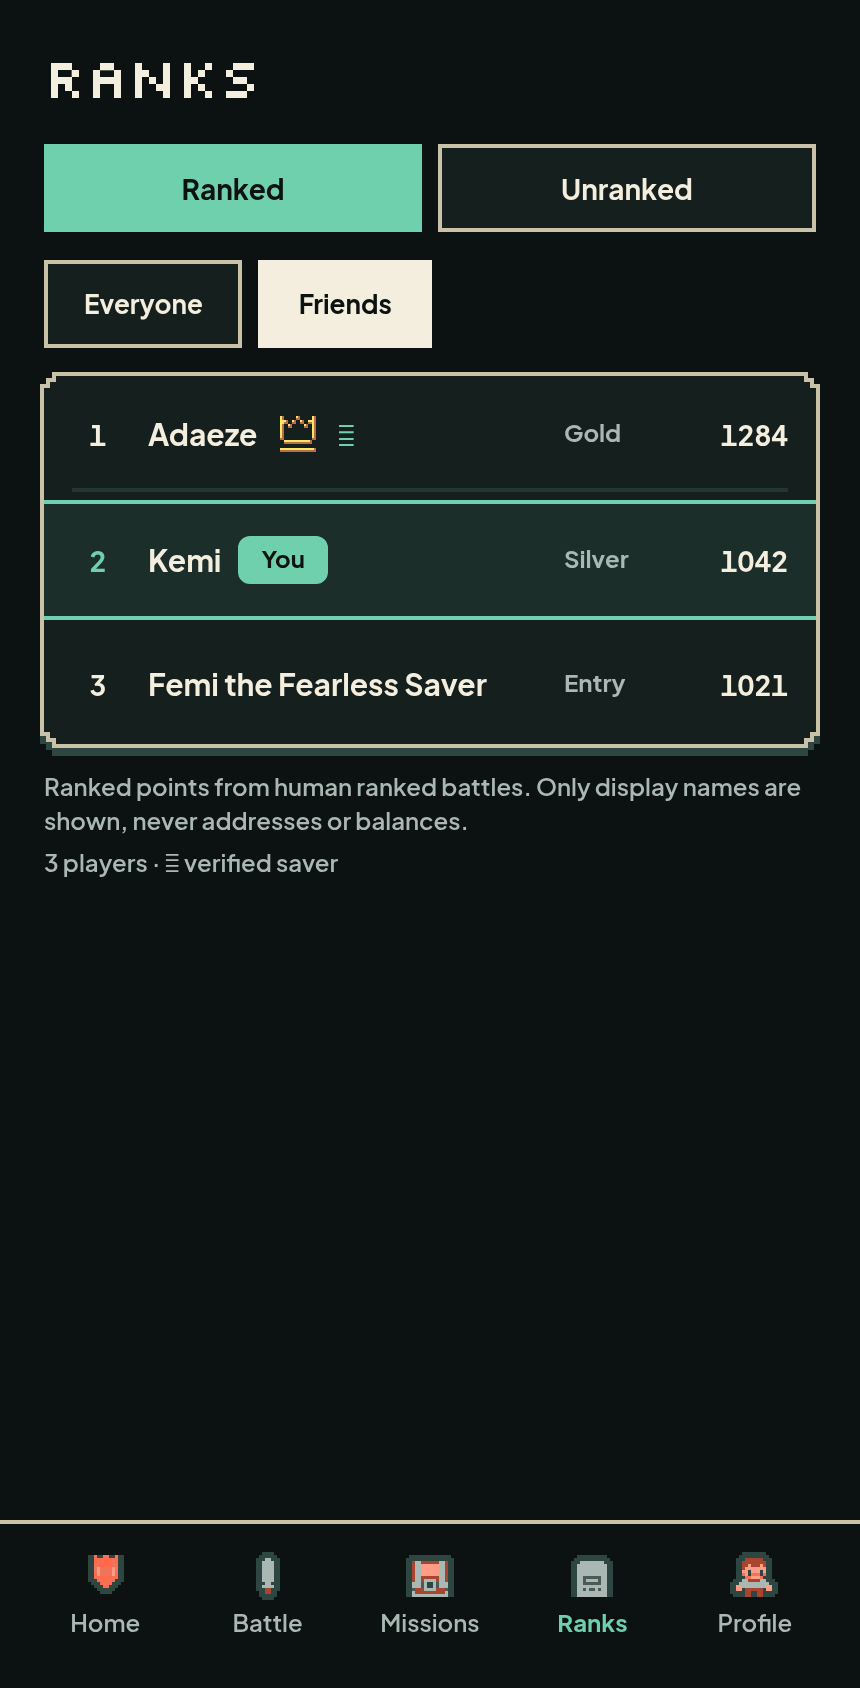
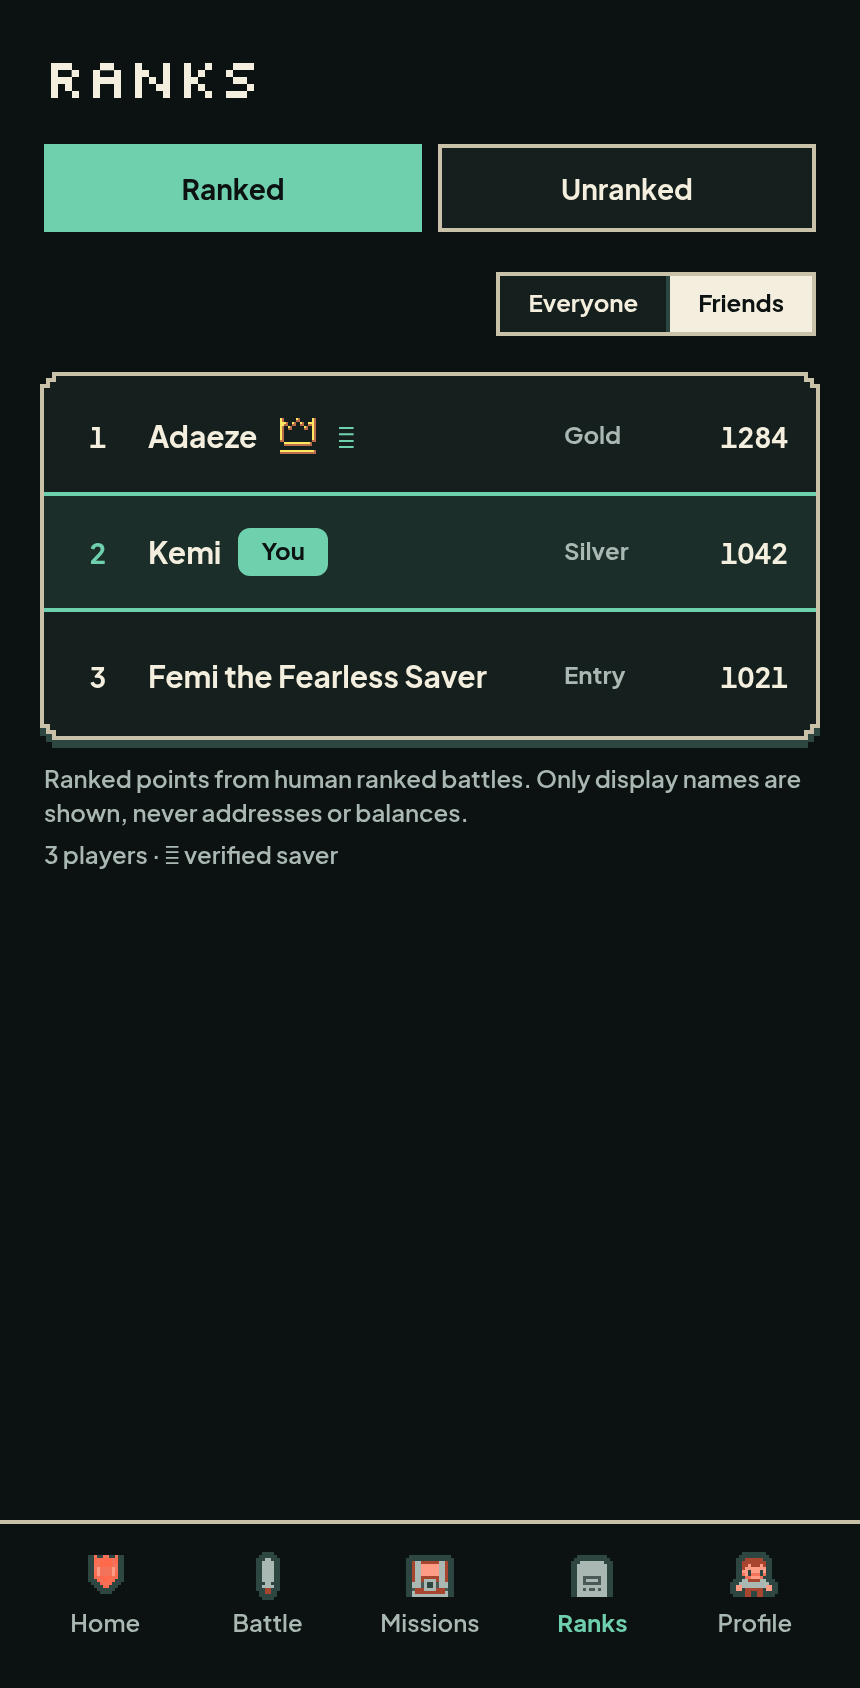
chore: refresh ranks renders after the revision

diff --git a/docs/superpowers/renders/ranks/review/index.html b/docs/superpowers/renders/ranks/review/index.html
@@ -29,15 +29,16 @@
 <body>
 <h1>Ranks UI — current review</h1>
 <p class="lede">
-  The Ranks batch at 360, 390 and 430: Ranked with your row, your rank pinned
-  outside the top 50, Unranked, the Friends filter, Friends empty, Everyone
-  empty, error and loading. Renders are 2× device-scale PNGs from the headless
-  CDP harness with fixture data. Write corrections in <code>NOTES.md</code>.
+  The Ranks batch at 360, 390 and 430, after the 2026-11-10 revision: Ranked
+  with your row, your rank pinned outside the top 50, Unranked, the Friends
+  filter, Friends empty, Everyone empty, error and loading. Renders are 2x
+  device-scale PNGs from the headless CDP harness with fixture data. Write
+  corrections in <code>NOTES.md</code>.
 </p>
 
 <section class="screen">
   <h2>Ranked</h2>
-  <p class="route">/leaderboard — Everyone, caller at rank 6; crown on 1, verified marker on 1 and 8, 56px rows, 60px mint-bordered You row, board footer + legend</p>
+  <p class="route">/leaderboard - Everyone segment selected in the right-aligned 32px bar; caller at rank 6; no divider above the mint You row; crown on 1, verified marker on 1 and 8; board footer + legend</p>
   <div class="strip">
     <figure><figcaption>360</figcaption><img src="../after/ranks-ranked@360.png" alt="Ranked leaderboard at 360px"></figure>
     <figure><figcaption>390</figcaption><img src="../after/ranks-ranked@390.png" alt="Ranked leaderboard at 390px"></figure>
@@ -52,7 +53,7 @@
 
 <section class="screen">
   <h2>Your rank pinned</h2>
-  <p class="route">/leaderboard — caller at rank 57, outside the top 50; a separate “Your rank” panel below the list. The footer sits below the fold and scrolls.</p>
+  <p class="route">/leaderboard - caller at rank 57, outside the top 50; a mint-outlined “Your rank” panel with a plain row and the caption above. The footer sits below the list.</p>
   <div class="strip">
     <figure><figcaption>360</figcaption><img src="../after/ranks-your-rank-pinned@360.png" alt="Pinned your rank at 360px"></figure>
     <figure><figcaption>390</figcaption><img src="../after/ranks-your-rank-pinned@390.png" alt="Pinned your rank at 390px"></figure>
@@ -72,7 +73,7 @@
 
 <section class="screen">
   <h2>Friends</h2>
-  <p class="route">/leaderboard — Friends chip selected (cream fill), three rows including the caller. Friends are players you have fought in a human battle.</p>
+  <p class="route">/leaderboard - Friends segment selected in the right-aligned bar (cream), three rows including the caller. Friends are players you have fought in a human battle.</p>
   <div class="strip">
     <figure><figcaption>360</figcaption><img src="../after/ranks-friends@360.png" alt="Friends filter at 360px"></figure>
     <figure><figcaption>390</figcaption><img src="../after/ranks-friends@390.png" alt="Friends filter at 390px"></figure>
@@ -102,7 +103,7 @@
 
 <section class="screen">
   <h2>Error</h2>
-  <p class="route">/leaderboard — “Couldn't load ranks.” banner and a secondary Try again button; tabs and chips stay visible</p>
+  <p class="route">/leaderboard — “Couldn't load ranks.” banner and a secondary Try again button; tabs and the filter bar stay visible</p>
   <div class="strip">
     <figure><figcaption>360</figcaption><img src="../after/ranks-error@360.png" alt="Ranks error at 360px"></figure>
     <figure><figcaption>390</figcaption><img src="../after/ranks-error@390.png" alt="Ranks error at 390px"></figure>
@@ -112,7 +113,7 @@
 
 <section class="screen">
   <h2>Loading</h2>
-  <p class="route">/leaderboard — tabs and filter chips stay; the three-dot LoadingState waits below them</p>
+  <p class="route">/leaderboard — tabs and the filter bar stay; the three-dot LoadingState waits below them</p>
   <div class="strip">
     <figure><figcaption>360</figcaption><img src="../after/ranks-loading@360.png" alt="Ranks loading at 360px"></figure>
     <figure><figcaption>390</figcaption><img src="../after/ranks-loading@390.png" alt="Ranks loading at 390px"></figure>
@@ -126,10 +127,11 @@
     <tr><th>Check</th><th>Result</th></tr>
     <tr><td>Horizontal overflow</td><td>0 on all 24 renders (8 states × 3 widths)</td></tr>
     <tr><td>Wide elements</td><td>none</td></tr>
-    <tr><td>Targets under 44×44</td><td>none (2 tabs, 2 filter chips, Try again and 5 nav links; rows are not interactive)</td></tr>
-    <tr><td>Minimum font</td><td>12px (bracket column, footer, You tag)</td></tr>
+    <tr><td>Targets under 44×44</td><td>none (2 tabs, 2 filter segments at 44px, Try again and 5 nav links; rows are not interactive)</td></tr>
+    <tr><td>Minimum font</td><td>12px (bracket column, footer, You tag, filter segments)</td></tr>
     <tr><td>Focus</td><td>9 stops (10 with Try again), all in view, uncovered, 2px mint outline</td></tr>
-    <tr><td>Row geometry</td><td>56px list rows, 60px You row, 4px block margin, 14px inline bleed</td></tr>
+    <tr><td>Filter bar</td><td>one 32px track, 28px segments inside 44px buttons; right aligned; 83×44 / 73×44 targets</td></tr>
+    <tr><td>Row geometry</td><td>56px list rows, 60px You row, no divider above it, 0 top gap, 4px bottom gap, 14px inline bleed</td></tr>
     <tr><td>Columns</td><td>26px rank; name 126/156/196px at 360/390/430; 52px bracket; 48px ranked / 56px unranked figure</td></tr>
     <tr><td>Renders</td><td>24 PNGs after, 3 before</td></tr>
   </table>

diff --git a/docs/superpowers/audits/2026-11-05-ui-gap-audit.md b/docs/superpowers/audits/2026-11-05-ui-gap-audit.md
@@ -1409,3 +1409,81 @@ sign-off list and deliberate choices. Raw audit is
    leaderboard payload needs item/badge data; this batch shows the positional
    crown only.
 3. Do not merge or push until the user signs off.
+
+---
+
+## 21. Ranks UI revision - 2026-11-10
+
+**Branch:** `ranks-ui-redesign` (same branch, after section 20).
+**Verdict:** three review corrections are in. The Everyone/Friends control is a
+right-aligned segmented bar visibly smaller than the tabs; the grey divider
+above the You row is gone; and the pinned rank highlights its container, not
+the row.
+
+### What changed
+
+- **Filter bar:** `FilterChip` is replaced by `FilterBar`. One 2px beveled
+  track, 32px tall, right aligned on its own row under the tabs, with a 2px
+  internal divider. The visible segments are 28px with 12px/700 labels; each
+  segment is a 44px button with `margin-block: -8px`, so the touch target is
+  kept while the control reads smaller than the 44px tabs. The selected segment
+  stays cream with ground text. `.sv-filter` is gone.
+- **You row divider:** the row directly above the caller passes
+  `divider={false}` when the next row is `isMe`, and `.sv-row--you` changes
+  from `margin-block: 4px` to `margin-block: 0 4px`. The mint top border now
+  sits where the grey divider was; the 4px bottom gap remains.
+- **Pinned rank:** the `Your rank` panel uses `PixelPanel tone="mint"`. The row
+  inside passes `highlight={false}`: no tint, no mint rank, no `You` tag. The
+  caption and the 56px row geometry stay. The in-list You row is unchanged
+  apart from the divider correction.
+- **Tests:** the FilterBar test replaces the FilterChip test; the page contract
+  now pins the right-aligned `min-h-11` row, the divider suppression, the mint
+  pinned panel and `highlight={false}`.
+
+### Verification
+
+| Check | Result |
+|---|---|
+| `npm test` | 396 pass, 0 fail |
+| `npx tsc --noEmit` | clean |
+| `npm run lint` | exit 0, 49 warnings, 0 errors |
+| `npm run build` | exit 0; `/leaderboard` compiles |
+| Type floor | min rendered font 12 |
+| Audit | 24 rows (8 states x 360/390/430): `overflowX: 0`, no wide element, no interactive target below 44px, every tab stop in view/uncovered with the mint outline |
+| Filter targets | Everyone 83x44, Friends 73x44; 32px track, 28px segments |
+| Row geometry | 56px list rows, 60px You row, no divider above it, 0 top gap, 4px bottom gap |
+
+### Rulings
+
+- **One bar, not two chips.** The handoff's pair read as two separate boxes
+  once it moved out of the handoff's own spacing. A single track with an
+  internal divider is one control and reads as a filter, not a second tab row.
+- **32px visual, 44px target.** The visible bar is deliberately smaller than
+  the tabs without shrinking the tap target. The 44px button overflows the
+  32px track vertically; the overflow is invisible and sits inside the 14px
+  gap, so it never overlaps another target. The audit measures the button, not
+  the track.
+- **The top divider goes, the bottom gap stays.** The grey line directly above
+  the caller competed with the mint top border. Closing the top gap makes the
+  mint border the separator; the 4px bottom gap keeps the mint frame from
+  pressing on the next row.
+- **Pinned highlights the container.** A second mint-framed row inside a mint
+  panel was two highlights for one fact. The panel outline says "this is your
+  rank"; the row stays a normal row, and the caption names it.
+- **The pinned fixture no longer repeats the caller.** The list now ends at
+  rank 6 with Ngozi and the pinned Kemi sits at 57, so the render does not show
+  the same player at two ranks.
+
+### Renders
+
+The 24 after PNGs in `docs/superpowers/renders/ranks/after/` were re-captured
+at 360/390/430; the 3 before PNGs are unchanged. The review page is
+`docs/superpowers/renders/ranks/review/index.html`; `NOTES.md` carries the
+revision choices. Raw audit is
+`docs/superpowers/renders/ranks/audit/final-audit.jsonl`.
+
+### Remaining
+
+1. Real-device Nimiq Pay pass at 360-430 is the user's sign-off step; the
+   sandbox has no `.env.local`.
+2. Do not merge or push until the user signs off.

diff --git a/docs/superpowers/renders/ranks/review/NOTES.md b/docs/superpowers/renders/ranks/review/NOTES.md
@@ -73,23 +73,27 @@ Corrections:
   level ordering and `Lv N` figure are a recorded divergence, not a bug.
 - Ranks rows are single-line by design: rank, name, bracket and figure. Level,
   wins and streak are not shown here; they remain on Home and Profile.
-- The You row is 60px with 4px block margin and a 14px inline bleed through the
-  panel padding. The row above keeps its 2px track divider, so the handoff's gap
-  between the divider and the mint top border is visible. The panel uses
-  `px-3.5`; changing it requires updating `.sv-row--you`.
+- The Everyone/Friends control is one right-aligned segmented bar, not two
+  chips: a 32px beveled track with a 2px internal divider, 28px segments and
+  44px button targets. It is visibly smaller than the 44px tabs. The selected
+  segment is cream with ground text.
+- The You row is 60px with a 14px inline bleed through the panel padding. The
+  row directly above it loses its grey divider and the top gap is closed, so
+  the mint top border sits where the divider was; the 4px bottom gap stays.
+  The panel uses `px-3.5`; changing it requires updating `.sv-row--you`.
 - The You tag is the existing 24px Chip at 12px, 4px taller than the handoff's
   20px/11px tag, to meet the type floor.
-- The pinned row is a separate panel under a `Your rank` caption when the
-  caller is outside the top 50. It never reads as rank 51 or as part of the
-  contiguous list.
+- The pinned row is a mint-outlined panel under a `Your rank` caption when the
+  caller is outside the top 50. The row inside is plain: no tint, no mint rank,
+  no `You` tag. It never reads as rank 51 or as part of the contiguous list.
 - Friends-empty is distinct from Everyone-empty because the API always includes
-  the caller. The Everyone chip stays one tap away.
+  the caller. The Everyone segment stays one tap away.
 - The verified-saver legend appears only when a verified marker is on screen.
 - A long name wraps inside the 56px row instead of truncating; a fourth line
   would grow the row.
 - Ranks 1-3 use default text and 4+ use muted text, as the handoff draws them.
   The old gold/silver/bronze rank numbers are gone from this screen.
-- Filter chip selection is cream fill with ground text. Mint stays for the
+- Filter segment selection is cream fill with ground text. Mint stays for the
   tabs, progress/success and the You row.
 - Tab and filter state are local React state; there is no query parameter.
 - A 401 redirects to `/setup`, matching the other data screens.
